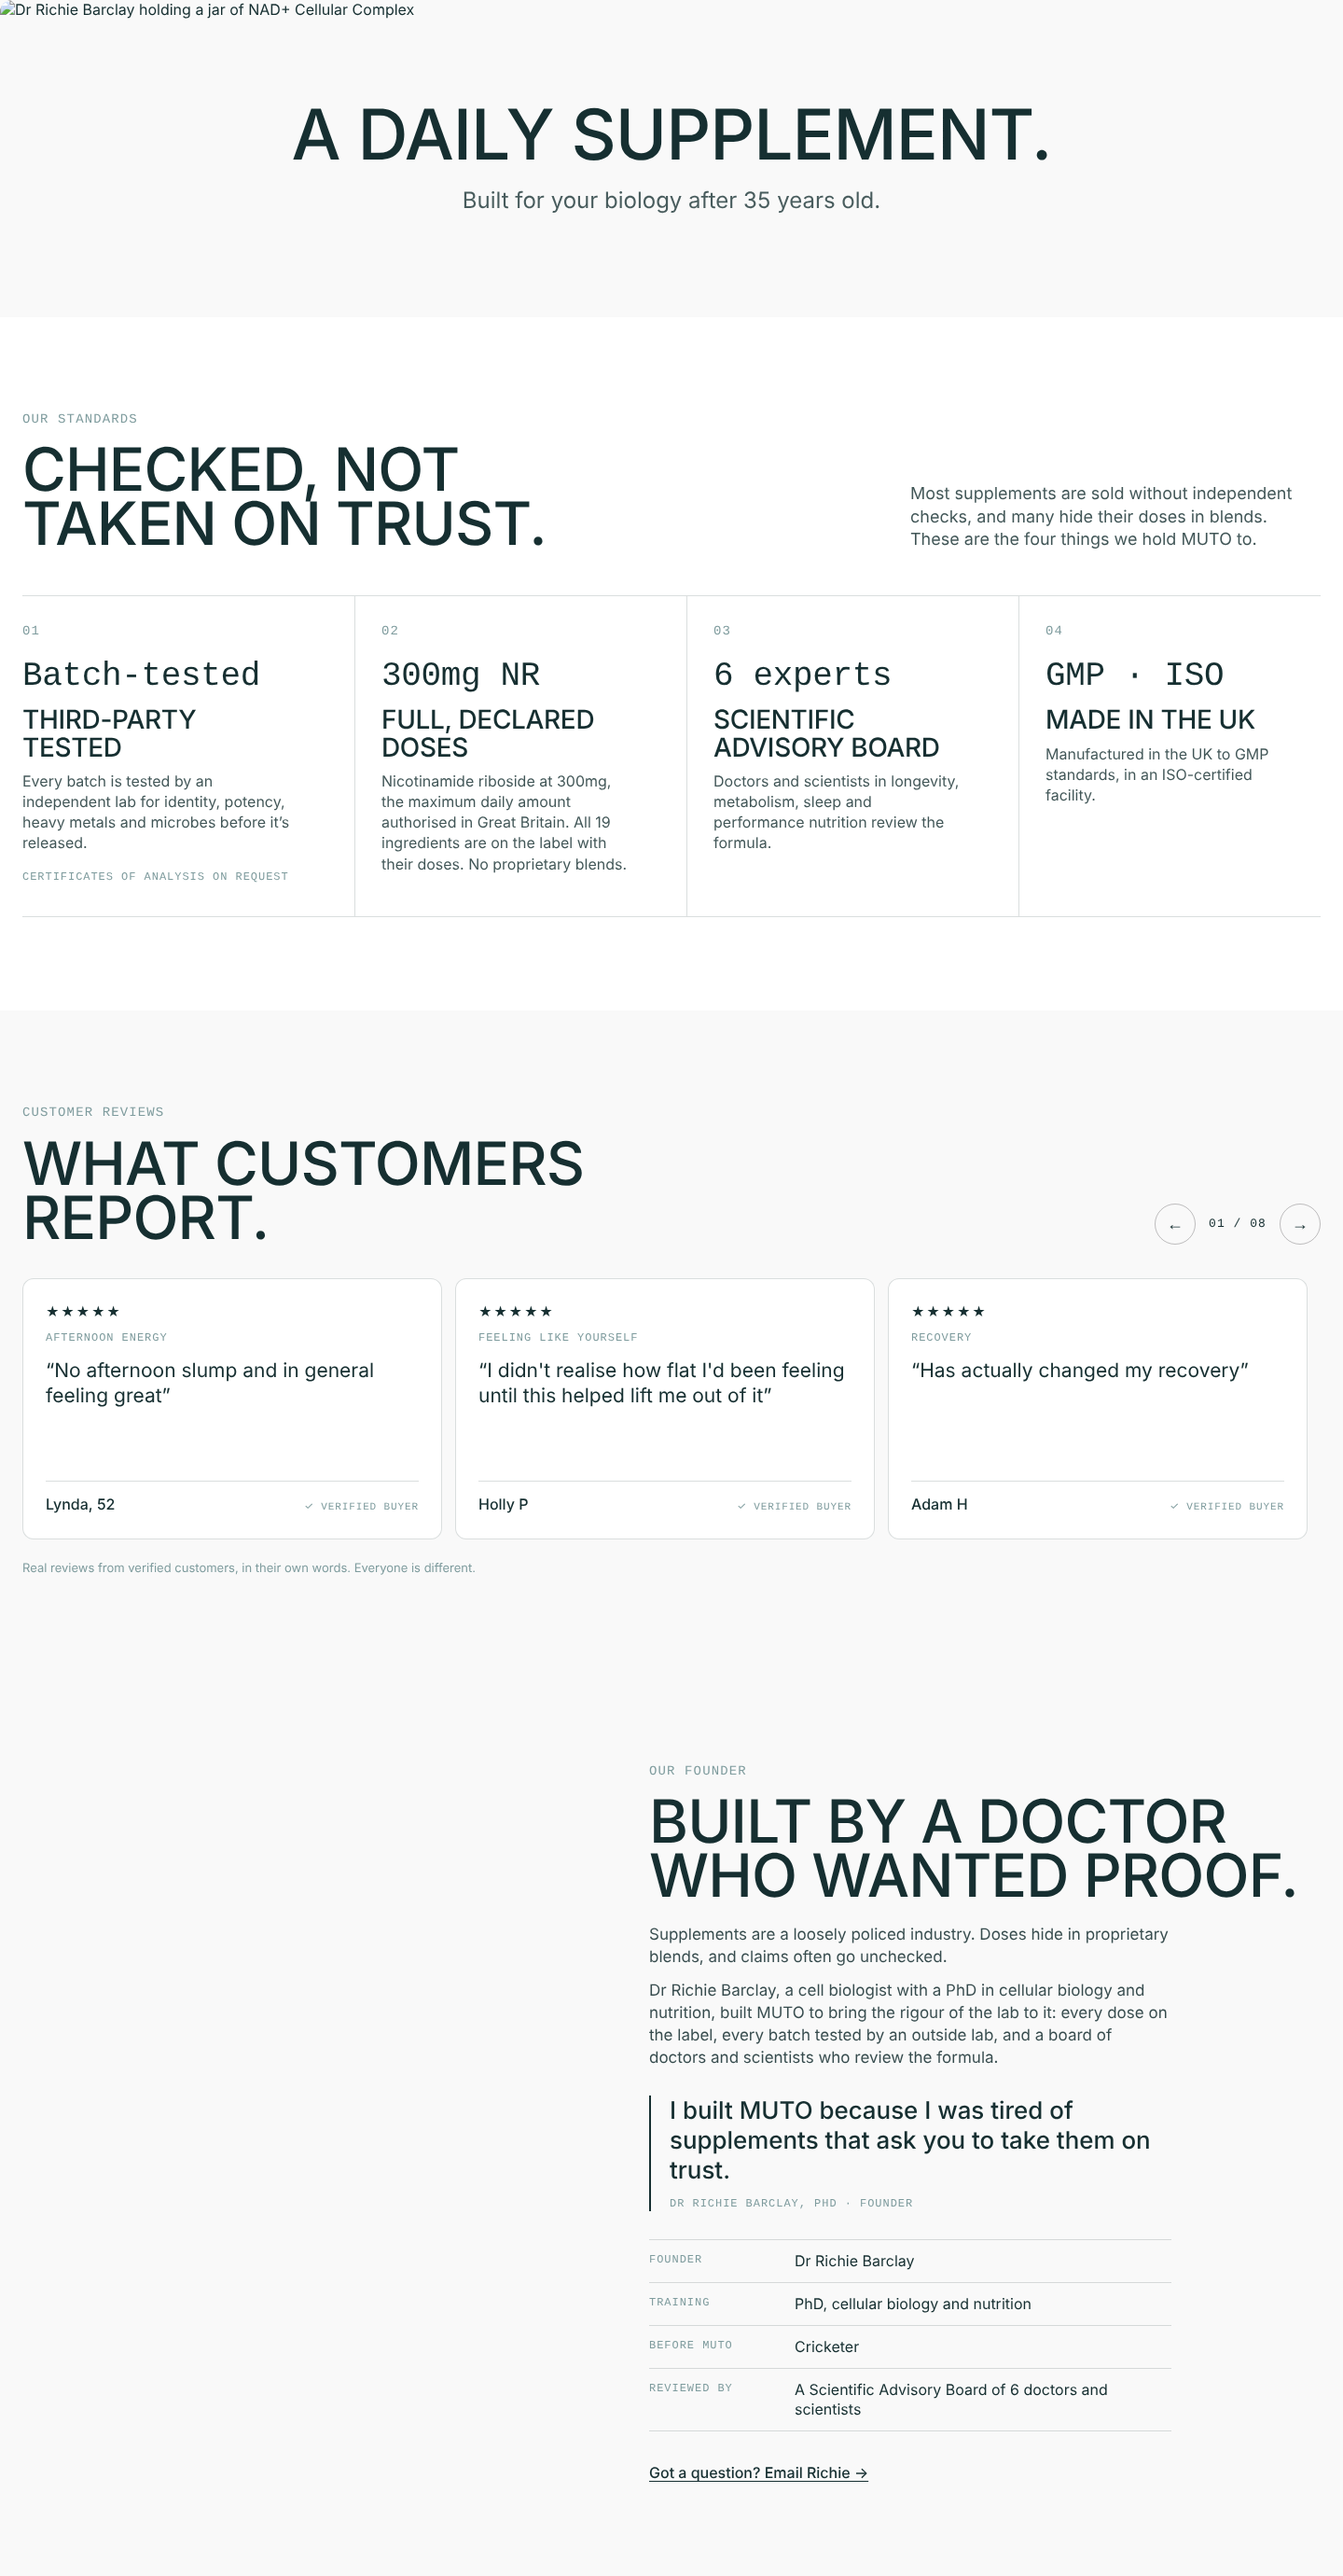
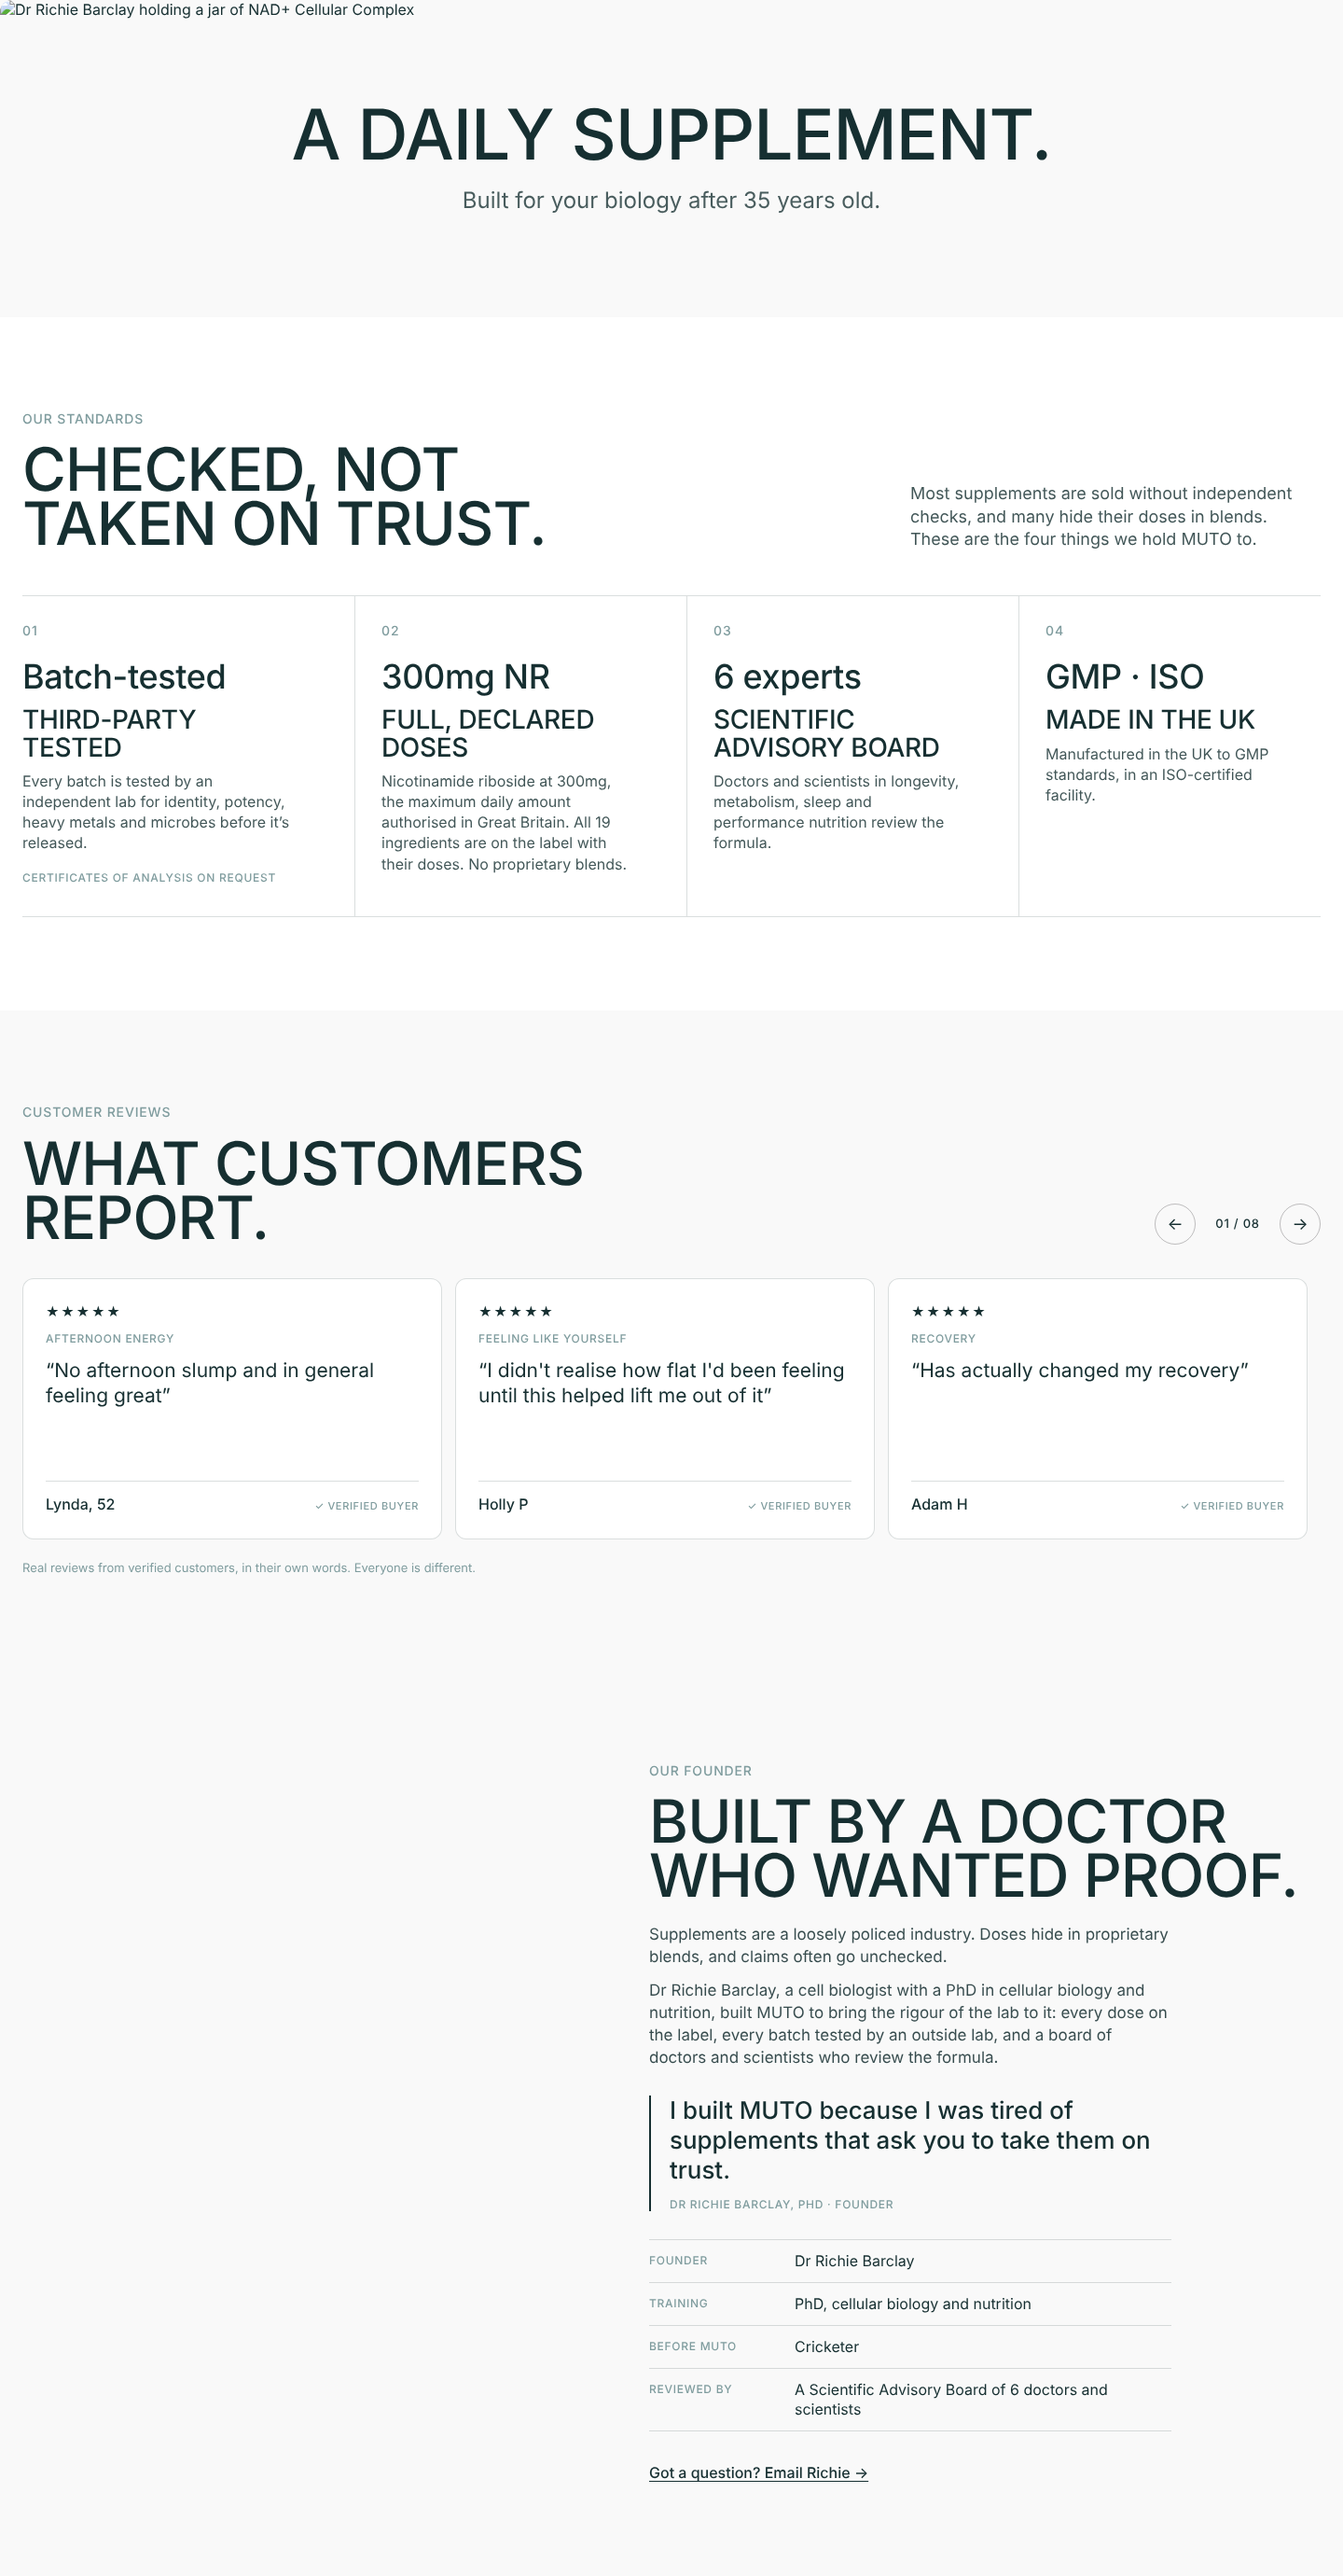
Trust bands: Neue Haas Grotesk throughout, no mono face
Claude-Session: https://claude.ai/code/session_01VYMABjkorQn2QmgJS9ckGR

diff --git a/shopify/pdp-trust/theme/assets/muto-crea-trust.css b/shopify/pdp-trust/theme/assets/muto-crea-trust.css
@@ -1,7 +1,14 @@
 /* MUTO — trust bands for the NAD+ product page: statement, standards,
    rotating reviews and founder. Built on muto-crea.css (load that first):
    same fonts, inks and spacing model. The clinical register comes from
-   hairline rules, mono labels and numbered items, not from a new palette. */
+   hairline rules, small uppercase labels and numbered items, not from a new
+   palette or typeface: Neue Haas Grotesk (the page's --mc-font) throughout,
+   labels and figures included, so no mono face appears in these bands. */
+
+.mc--stm,.mc--std,.mc--rev,.mc--fdr,
+.mc--stm .mc__mono,.mc--std .mc__mono,.mc--rev .mc__mono,.mc--fdr .mc__mono,
+.mc--rev .mc__rev-btn{font-family:var(--mc-font)}
+.mc--stm .mc__mono,.mc--std .mc__mono,.mc--rev .mc__mono,.mc--fdr .mc__mono{letter-spacing:.06em}
 
 .mc--stm,.mc--std,.mc--rev,.mc--fdr{background:var(--mc-ground)}
 .mc--std{background:#fff}
@@ -24,7 +31,7 @@
 .mc__std-list{display:grid;grid-template-columns:1fr;border-top:1px solid var(--mc-hair)}
 .mc__std-item{padding:26px 0 30px;border-bottom:1px solid var(--mc-hair);display:flex;flex-direction:column}
 .mc__std-num{color:var(--mc-muted);margin-bottom:22px}
-.mc__std-stat{font-family:var(--mc-mono);font-weight:500;font-size:clamp(26px,2.5vw,36px);letter-spacing:-.01em;line-height:1;margin-bottom:14px}
+.mc__std-stat{font-family:var(--mc-font);font-weight:500;font-size:clamp(26px,2.5vw,36px);letter-spacing:-.01em;line-height:1;margin-bottom:14px}
 .mc .mc__std-title{margin-bottom:10px}
 .mc__std-text{font-size:16px;line-height:1.38;color:rgba(22,47,49,.82)}
 .mc__std-note{margin-top:18px;font-size:12px;color:var(--mc-muted)}
